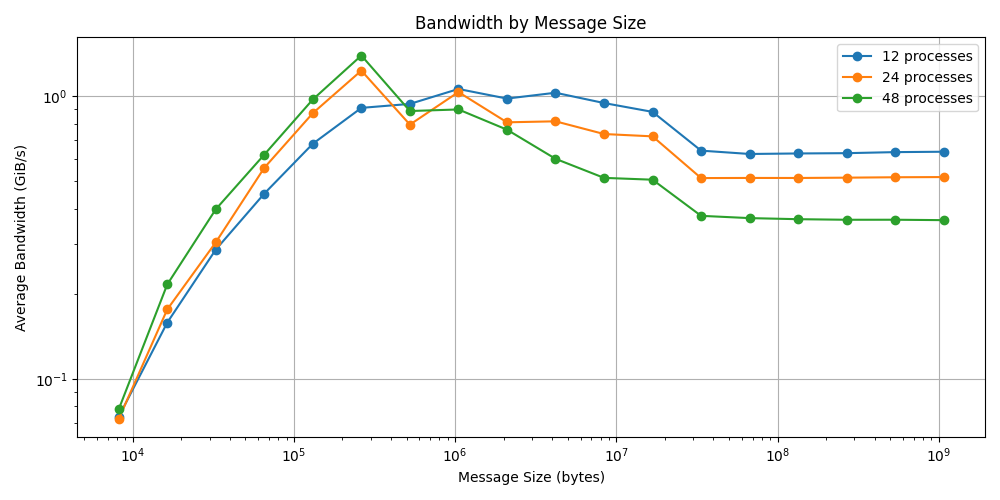
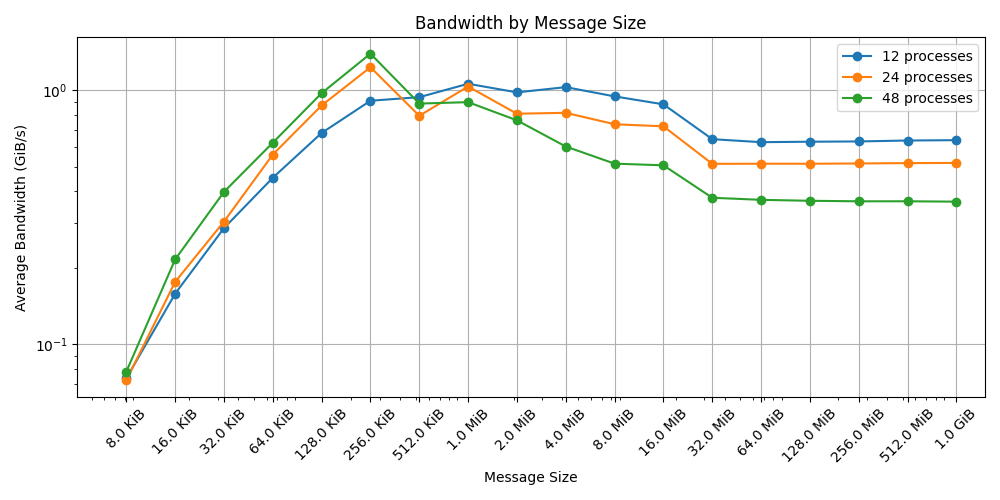
asdf

diff --git a/plot.py b/plot.py
@@ -1,23 +1,46 @@
 import pandas as pd
 import matplotlib.pyplot as plt
 
+# Define the function for formatting sizes
+def format_size(size):
+    if size < 2**10:
+        return f"{size} B"
+    elif size < 2**20:
+        return f"{size / 2**10:.1f} KiB"
+    elif size < 2**30:
+        return f"{size / 2**20:.1f} MiB"
+    else:
+        return f"{size / 2**30:.1f} GiB"
+
 # Load CSV files into pandas DataFrames
 df_12 = pd.read_csv('allreduce_bandwidth_results_12.csv')
 df_24 = pd.read_csv('allreduce_bandwidth_results_24.csv')
 df_48 = pd.read_csv('allreduce_bandwidth_results_48.csv')
+
+# Get the unique tensor sizes from the data (you can also adjust for a finer granularity)
+tensor_sizes = sorted(set(df_12['Tensor Size (bytes)']).union(set(df_24['Tensor Size (bytes)'])).union(set(df_48['Tensor Size (bytes)'])))
 
 # Plot Time by Message Size
 plt.figure(figsize=(10, 5))
 plt.plot(df_12['Tensor Size (bytes)'], df_12['Average Time (seconds)'], label='12 processes', marker='o')
 plt.plot(df_24['Tensor Size (bytes)'], df_24['Average Time (seconds)'], label='24 processes', marker='o')
 plt.plot(df_48['Tensor Size (bytes)'], df_48['Average Time (seconds)'], label='48 processes', marker='o')
-plt.xlabel('Message Size (bytes)')
+plt.xlabel('Message Size')
 plt.ylabel('Average Time (seconds)')
 plt.title('Time by Message Size')
 plt.legend()
 plt.grid(True)
 plt.xscale('log')
 plt.yscale('log')
+
+# Apply custom x-axis labels using the format_size function on actual tensor sizes
+xticks = tensor_sizes  # Use the measured tensor sizes as x-ticks
+xticklabels = [format_size(int(tick)) for tick in xticks]  # Format each tick label
+plt.xticks(xticks, xticklabels, rotation=45)  # Rotate the x-axis labels by 45 degrees
+
+# Set the x-axis range from 4 KiB (4096 bytes) to 1.5 GiB (1.5 * 2^30 bytes)
+plt.xlim(4096, int(1.5 * 2**30))
+
 plt.tight_layout()
 plt.savefig('time_by_message_size.png')  # Save the plot as a PNG file
 plt.close()  # Close the plot to avoid overlap with the next one
@@ -27,13 +50,20 @@ plt.figure(figsize=(10, 5))
 plt.plot(df_12['Tensor Size (bytes)'], df_12['Average Bandwidth (GiB/s)'], label='12 processes', marker='o')
 plt.plot(df_24['Tensor Size (bytes)'], df_24['Average Bandwidth (GiB/s)'], label='24 processes', marker='o')
 plt.plot(df_48['Tensor Size (bytes)'], df_48['Average Bandwidth (GiB/s)'], label='48 processes', marker='o')
-plt.xlabel('Message Size (bytes)')
+plt.xlabel('Message Size')
 plt.ylabel('Average Bandwidth (GiB/s)')
 plt.title('Bandwidth by Message Size')
 plt.legend()
 plt.grid(True)
 plt.xscale('log')
 plt.yscale('log')
+
+# Apply custom x-axis labels using the format_size function on actual tensor sizes
+plt.xticks(xticks, xticklabels, rotation=45)  # Rotate the x-axis labels by 45 degrees
+
+# Set the x-axis range from 4 KiB (4096 bytes) to 1.5 GiB (1.5 * 2^30 bytes)
+plt.xlim(4096, int(1.5 * 2**30))
+
 plt.tight_layout()
 plt.savefig('bandwidth_by_message_size.png')  # Save the plot as a PNG file
 plt.close()  # Close the plot

diff --git a/measure.py b/measure.py
@@ -95,21 +95,3 @@ if my_rank == 0:
             writer.writerow([size, avg_time, avg_bandwidth])
     
     print(f"Results saved to {csv_file}")
-
-    '''
-    # Plot the results
-    plt.figure(figsize=(8, 5))
-    sizes_in_gib = [s / (2**30) for s in tensor_sizes]  # Convert sizes to GiB for plotting
-    plt.plot(sizes_in_gib, times, marker='o', linestyle='-', color='r', label='Average Time (s)')
-
-    plt.xticks(sizes_in_gib, [format_size(s) for s in tensor_sizes], rotation=45, ha='right')
-
-    plt.xlabel('Tensor Size')
-    plt.ylabel('Average Time (seconds)')
-    plt.title('AllReduce Average Time vs Tensor Size')
-    plt.legend()
-    plt.grid()
-    plt.tight_layout()
-    plt.savefig('allreduce_time_avg.png')
-    plt.show()
-    '''
